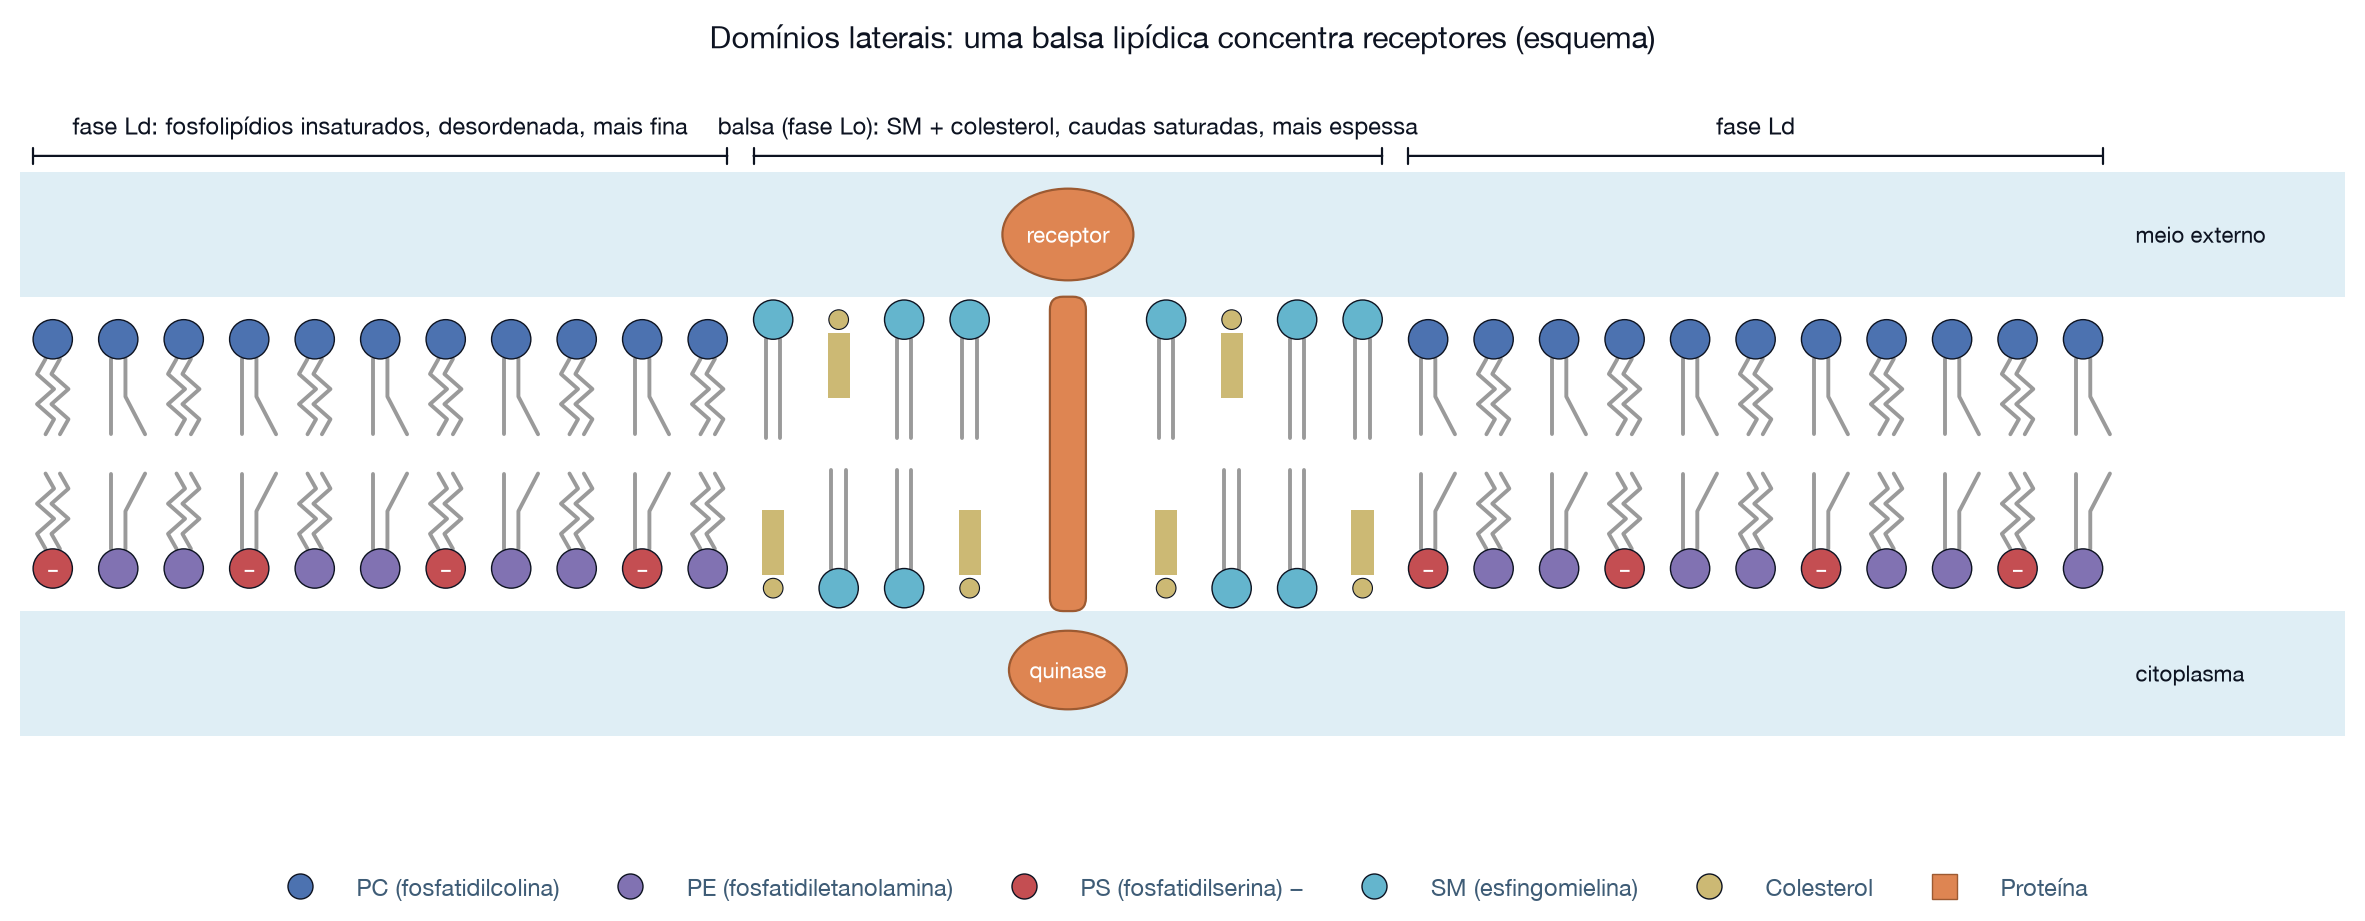
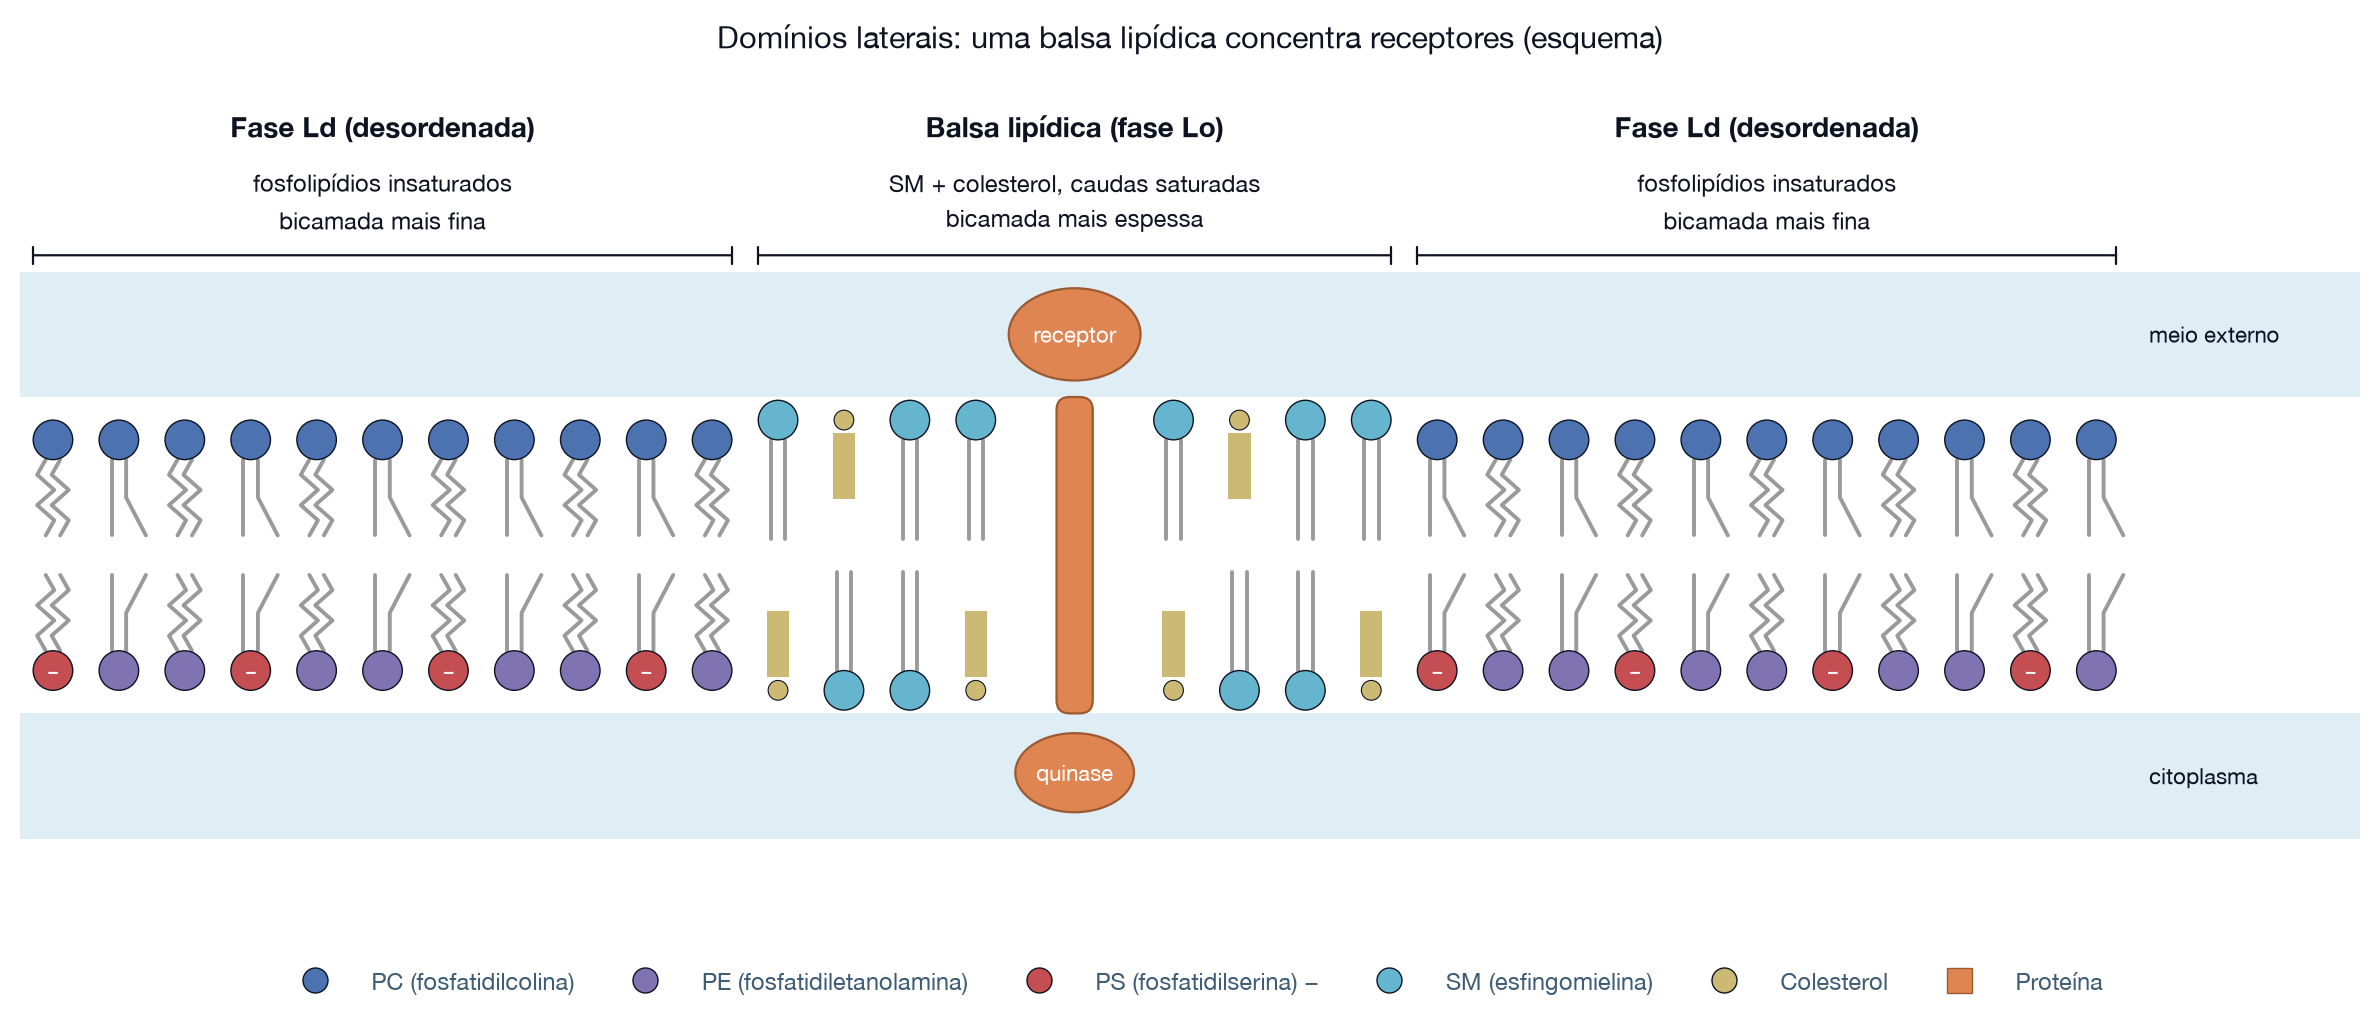
Clearer phase labels in raft figure

diff --git a/tools/make_figures.py b/tools/make_figures.py
@@ -650,7 +650,7 @@ def _lipid_handles(names, extra=()):
 
 def fig_raft_domains():
     """Balsa lipidica (fase Lo) cercada de fase Ld, com um receptor dentro da balsa."""
-    fig, ax = plt.subplots(figsize=(12, 4.7))
+    fig, ax = plt.subplots(figsize=(12, 5.1))
     n, raft = 32, (11, 21)
     for i in range(n):
         x = i + 0.5
@@ -677,13 +677,14 @@ def fig_raft_domains():
     ax.text(16.0, -3.3, 'quinase', ha='center', va='center', fontsize=8, color='white', zorder=6)
     _water(ax, 0, n, 2.4, -2.4, h=1.9)
     # chaves de fase
-    for (a, b), lab in (((0.2, 10.8), 'fase Ld: fosfolipídios insaturados, desordenada, mais fina'),
-                        ((11.2, 20.8), 'balsa (fase Lo): SM + colesterol, caudas saturadas, mais espessa'),
-                        ((21.2, 31.8), 'fase Ld')):
+    for (a, b), name, desc in (((0.2, 10.8), 'Fase Ld (desordenada)', 'fosfolipídios insaturados\nbicamada mais fina'),
+                               ((11.2, 20.8), 'Balsa lipídica (fase Lo)', 'SM + colesterol, caudas saturadas\nbicamada mais espessa'),
+                               ((21.2, 31.8), 'Fase Ld (desordenada)', 'fosfolipídios insaturados\nbicamada mais fina')):
         ax.annotate('', xy=(a, 4.55), xytext=(b, 4.55), arrowprops=dict(arrowstyle='|-|', color=INK, lw=0.8,
                                                                           shrinkA=0, shrinkB=0, mutation_scale=3))
-        ax.text((a + b) / 2, 4.8, lab, ha='center', va='bottom', fontsize=8.5, color=INK)
-    ax.set_xlim(0, 35.5); ax.set_ylim(-4.4, 5.6); ax.set_aspect('equal'); frame_off(ax)
+        ax.text((a + b) / 2, 6.25, name, ha='center', va='bottom', fontsize=10, color=INK, weight='bold')
+        ax.text((a + b) / 2, 4.8, desc, ha='center', va='bottom', fontsize=8.5, color=INK, linespacing=1.3)
+    ax.set_xlim(0, 35.5); ax.set_ylim(-4.4, 7.1); ax.set_aspect('equal'); frame_off(ax)
     ax.set_title('Domínios laterais: uma balsa lipídica concentra receptores (esquema)')
     hs, labs = _lipid_handles(['PC', 'PE', 'PS', 'SM', 'CHOL'], [('Proteína', PROT)])
     fig.legend(hs, labs, loc='lower center', ncol=6, frameon=False, fontsize=8.5, bbox_to_anchor=(0.5, 0.0))
